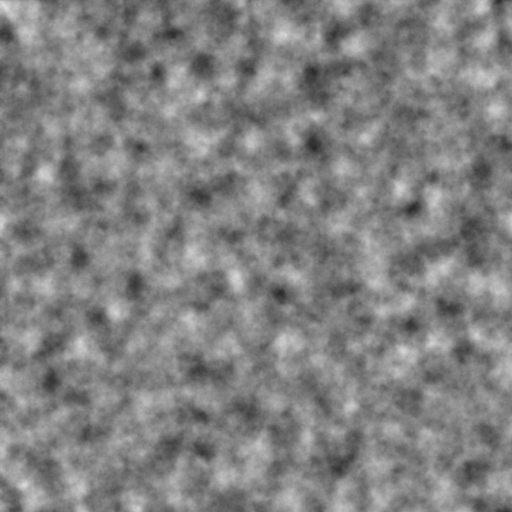
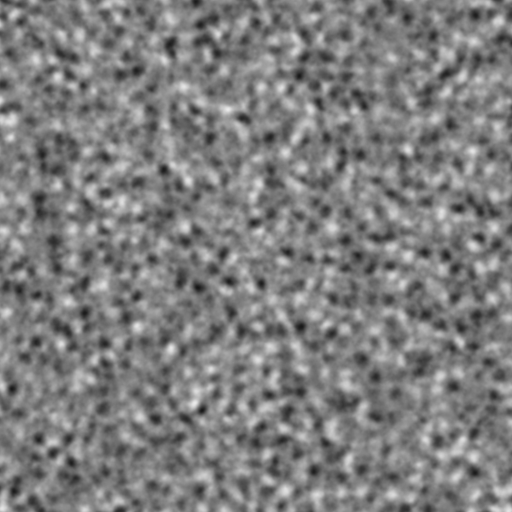
updated perlin texture and specular highlight calculation

diff --git a/src/main.cpp b/src/main.cpp
@@ -21,8 +21,8 @@ bool handleEvents(){
 }
 
 int main(int argc, char** argv){
-  const int SCREEN_WIDTH = 320;
-  const int SCREEN_HEIGHT = 240;
+  const int SCREEN_WIDTH = 800;
+  const int SCREEN_HEIGHT = 600;
 
   SDL_Window* window = NULL;
   SDL_GLContext context = NULL;
@@ -56,7 +56,7 @@ int main(int argc, char** argv){
 
   //add robot
   auto geometry = std::make_shared<Geometry>(loadDataFromFile("/home/fernando/Projects/engine/robot-low-normal.dae"));
-  auto phongMat = std::make_shared<Material>(Material(Vec4(0.5,0.5,0.5,0.0),Vec4(1.0,1.0,1.0,0.0),100));
+  auto phongMat = std::make_shared<Material>(Material(Vec4(0.5,0.5,0.5,0.0),Vec4(1.0,1.0,1.0,0.0),20));
   phongMat->setShaderFiles("/home/fernando/Projects/engine/vertex.glsl","/home/fernando/Projects/engine/fragment.glsl");
   auto robot = std::make_shared<Mesh>(Mesh(geometry,phongMat));
 
